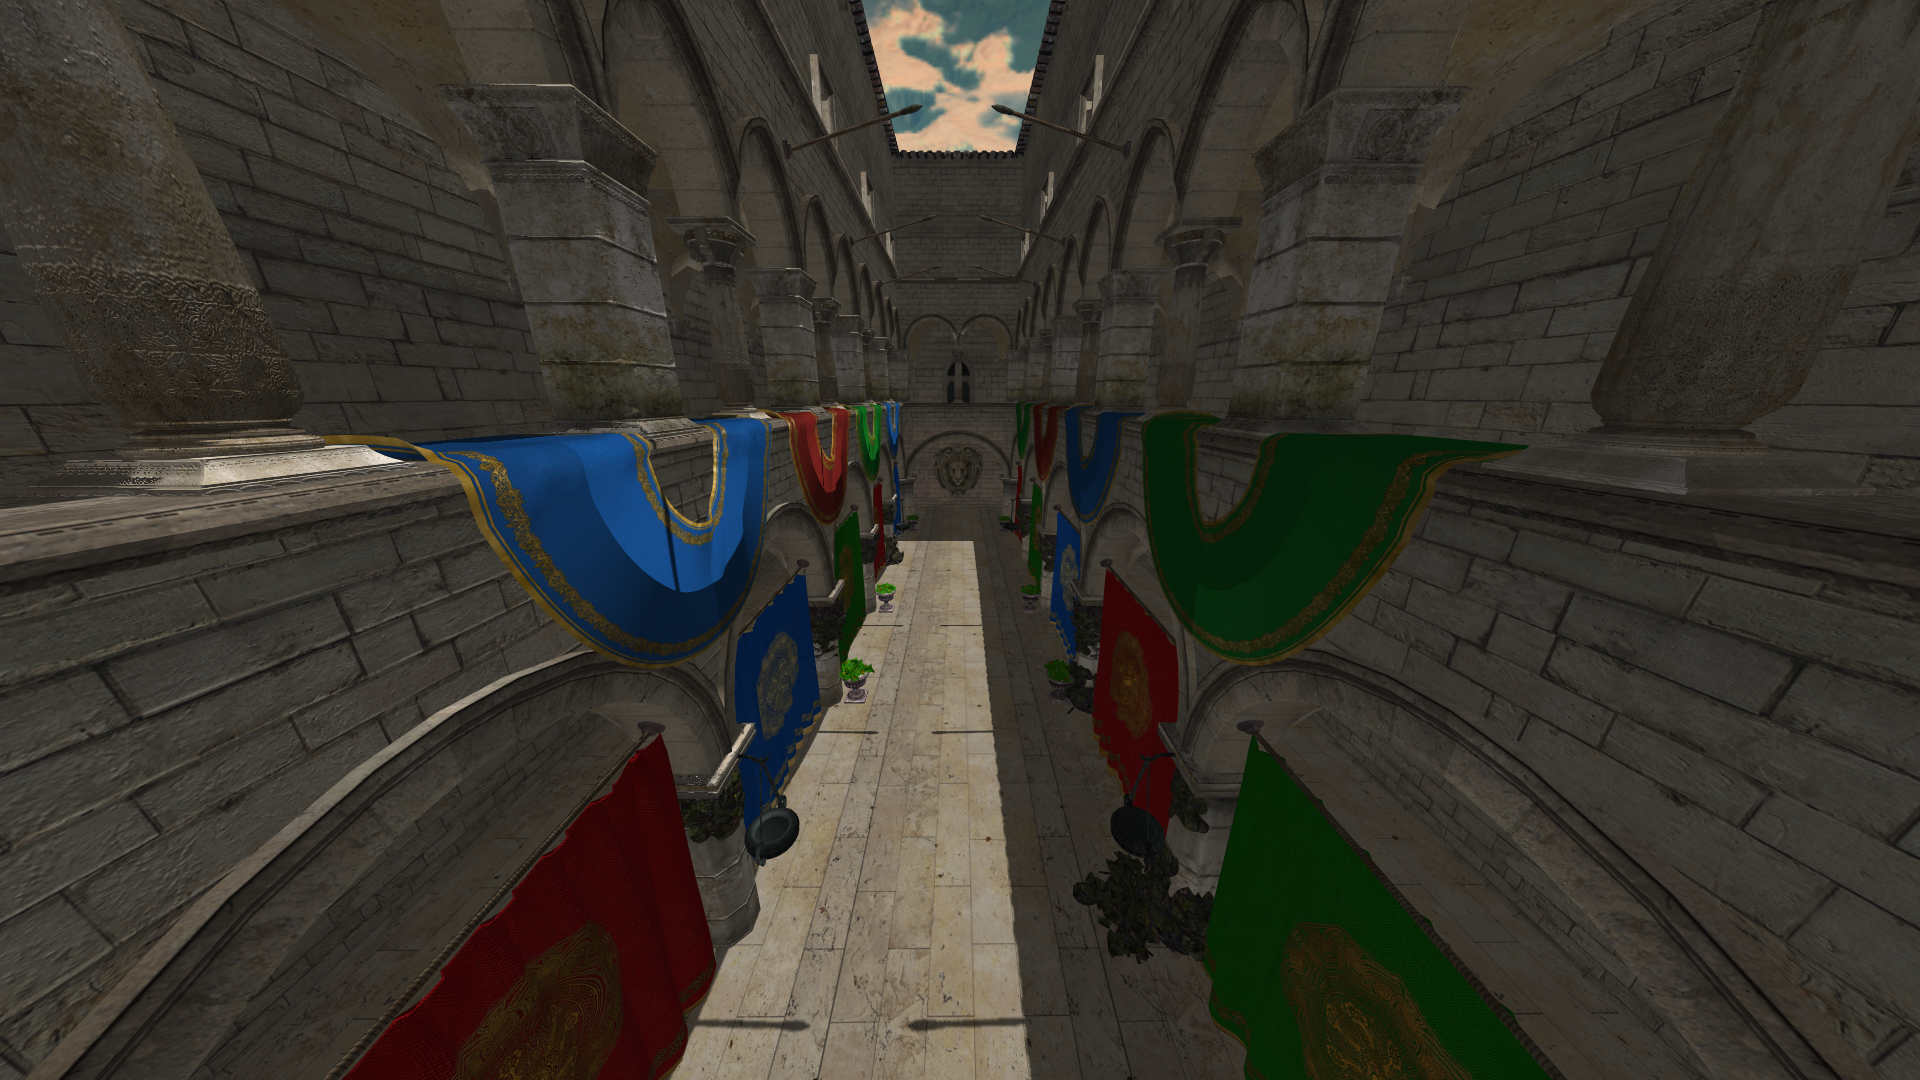
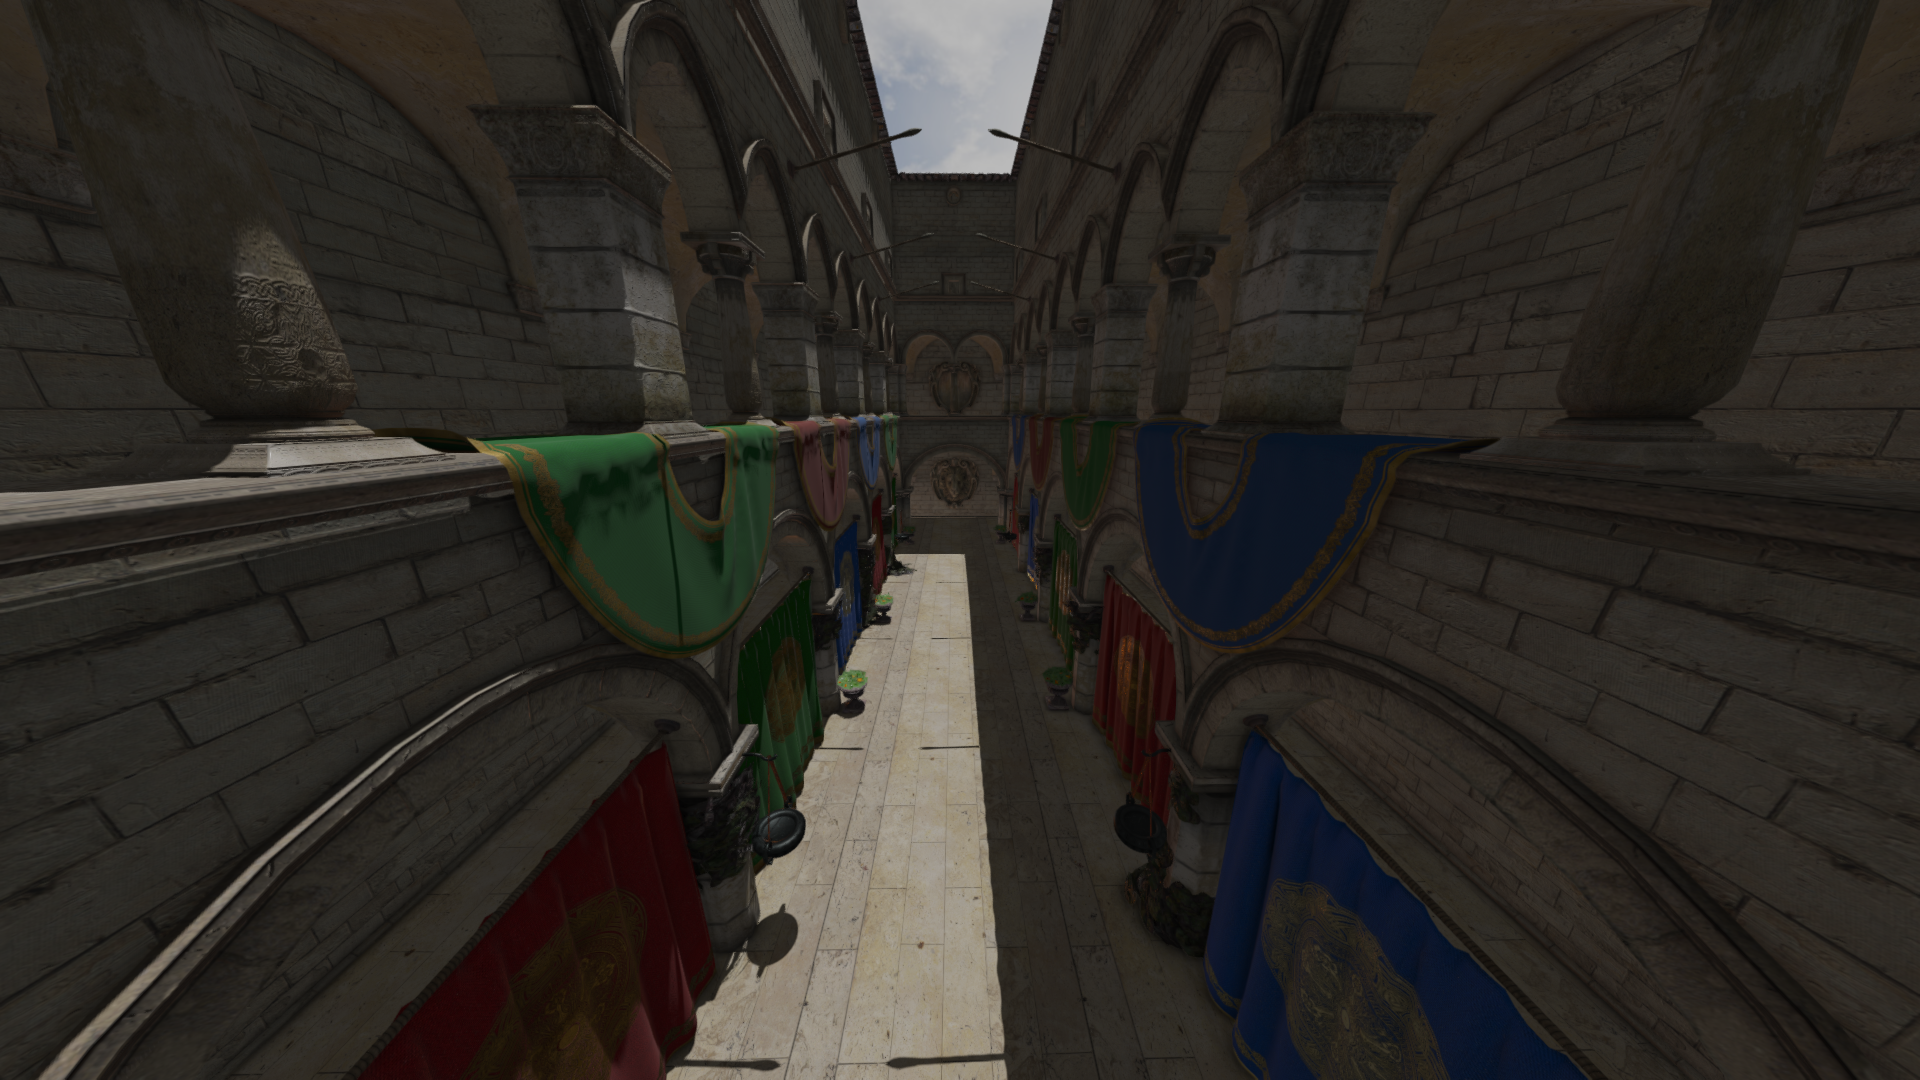
Updated images

diff --git a/Brady Jessup_files/assets.css b/Brady Jessup_files/assets.css
@@ -9470,7 +9470,7 @@ a:focus {
   width: 100%;
   padding: 50px 0;
   color: white;
-  background: url(voxel.jpg) no-repeat center center scroll;
+  background: url(render.png) no-repeat center center scroll;
   background-color: black;
   -webkit-background-size: cover;
   -moz-background-size: cover;
